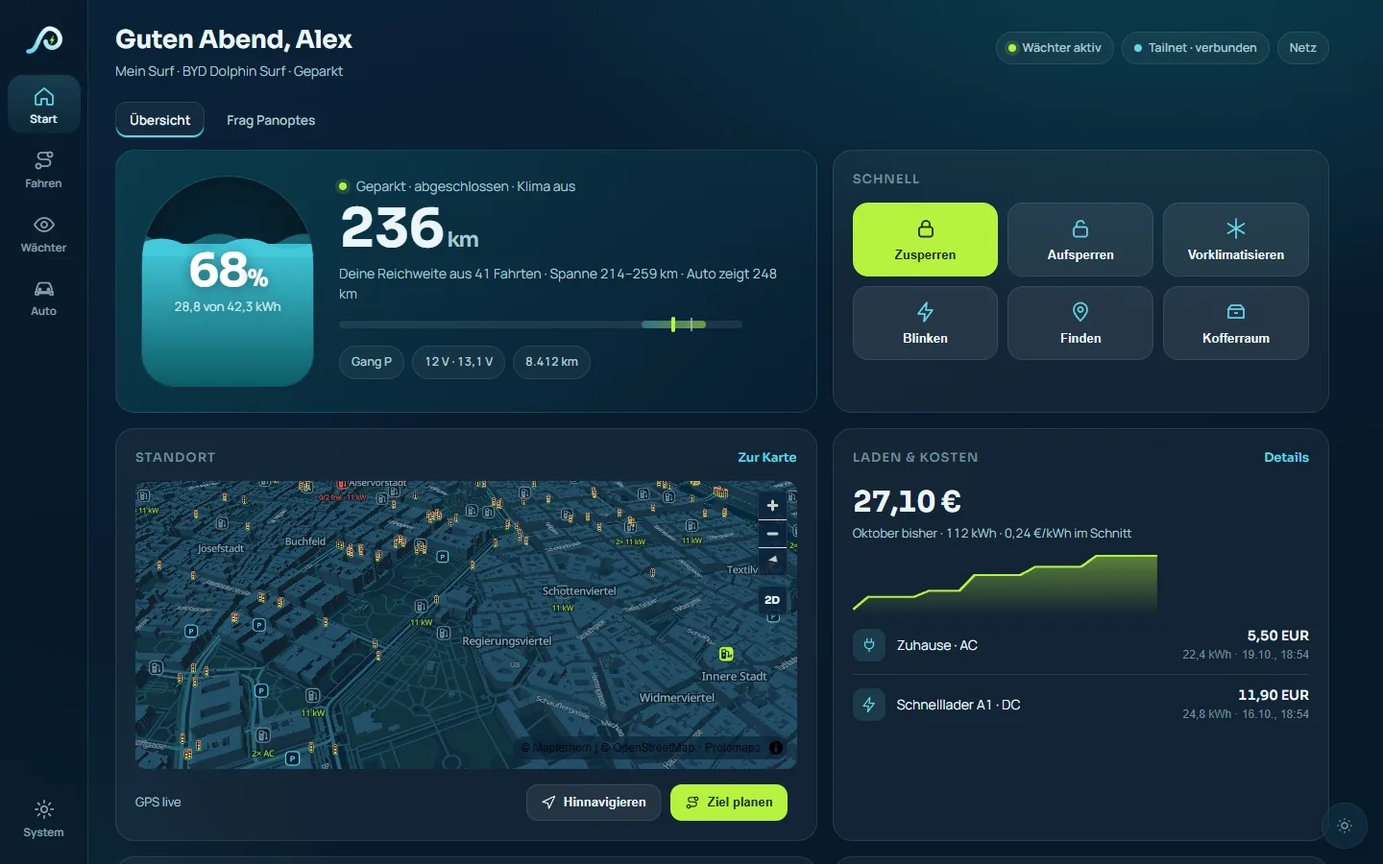
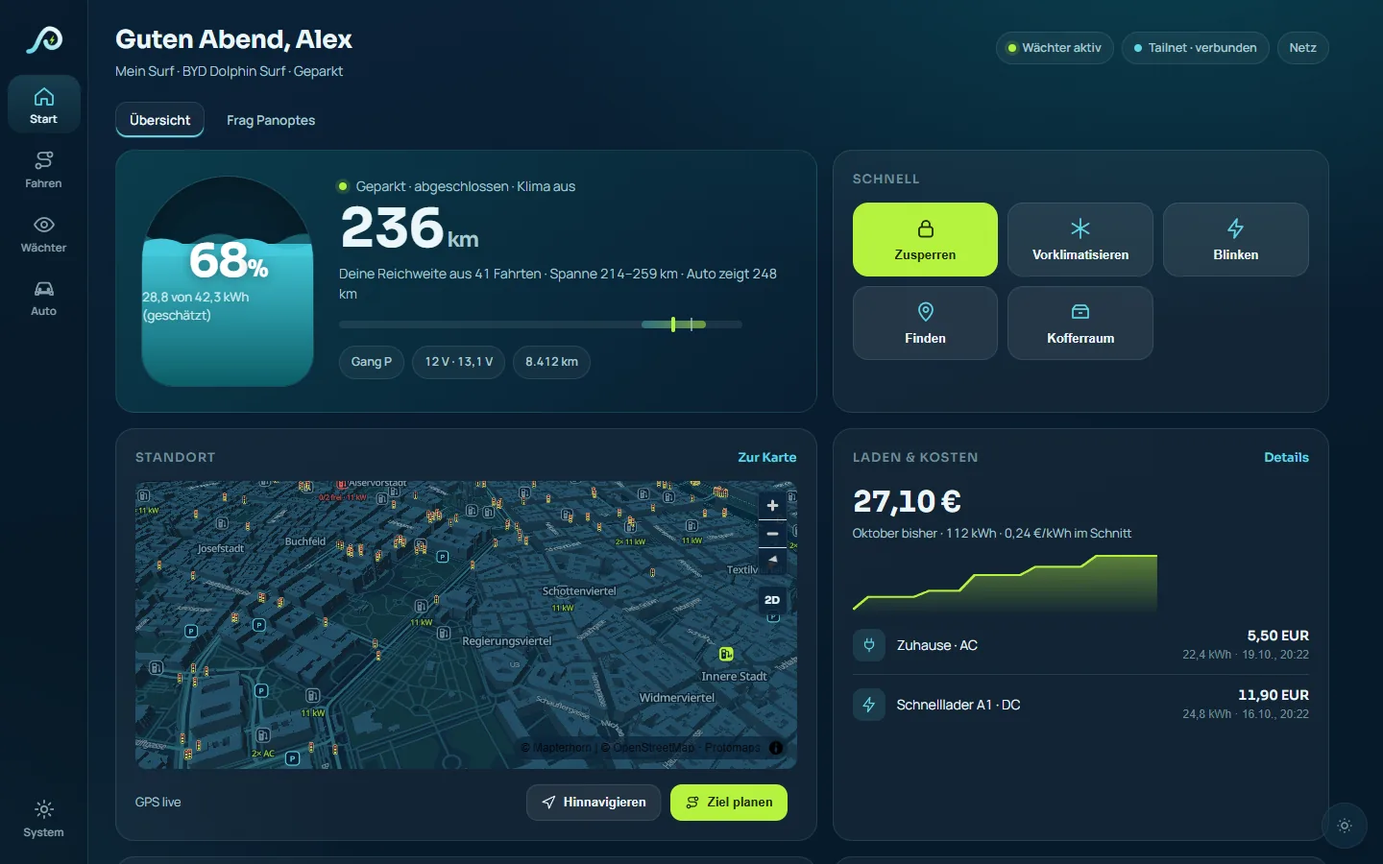
/panoptes/: neue Startbilder ohne Aufsperren (Panoptes 0.1.9, von Neubau 2), Bild-Adressen mit Inhalts-Kennung gegen 24-h-Cache

diff --git a/website/panoptes/en/index.html b/website/panoptes/en/index.html
@@ -77,7 +77,7 @@ ol.hw{padding-left:1.3em}ol.hw li{margin:.7em 0}
 
   <div class="top"><a href="/">← BYD EU Community</a><a href="../" hreflang="de">🌐 Deutsch</a></div>
   <header><div class="eyebrow">Free · for BYD with DiLink 3, 4 and 5 · community project</div><h1>Panoptes — <span class="grad">your BYD, awake and connected</span></h1><p class="sub">An app that runs right on your car's screen, plus an interface you open on your phone or PC: a camera guard, remote access, Telegram notifications, its own map with chargers and a link to the route planner.</p></header>
-  <div class="reihe"><a href="../bilder/start-pc-dunkel.webp" target="_blank" rel="noopener" class="breit" style="flex:1.6000 1 0;aspect-ratio:1440/900"><picture><source media="(prefers-color-scheme: light)" srcset="../bilder/start-pc-hell.webp"><img src="../bilder/start-pc-dunkel.webp" alt="Panoptes home on a PC: charge level, range, map and charging costs" width="1440" height="900" loading="eager" fetchpriority="high"></picture></a><a href="../bilder/start-handy-dunkel.webp" target="_blank" rel="noopener" class="hoch" style="flex:0.4621 1 0;aspect-ratio:780/1688"><picture><source media="(prefers-color-scheme: light)" srcset="../bilder/start-handy-hell.webp"><img src="../bilder/start-handy-dunkel.webp" alt="Panoptes home on a phone: charge level and range" width="780" height="1688" loading="eager" fetchpriority="high"></picture></a></div>
+  <div class="reihe"><a href="../bilder/start-pc-dunkel.webp?v=906a35c4" target="_blank" rel="noopener" class="breit" style="flex:1.6000 1 0;aspect-ratio:1440/900"><picture><source media="(prefers-color-scheme: light)" srcset="../bilder/start-pc-hell.webp?v=d918283c"><img src="../bilder/start-pc-dunkel.webp?v=906a35c4" alt="Panoptes home on a PC: charge level, range, map and charging costs" width="1440" height="900" loading="eager" fetchpriority="high"></picture></a><a href="../bilder/start-handy-dunkel.webp?v=741ae942" target="_blank" rel="noopener" class="hoch" style="flex:0.4621 1 0;aspect-ratio:780/1688"><picture><source media="(prefers-color-scheme: light)" srcset="../bilder/start-handy-hell.webp?v=725c8126"><img src="../bilder/start-handy-dunkel.webp?v=741ae942" alt="Panoptes home on a phone: charge level and range" width="780" height="1688" loading="eager" fetchpriority="high"></picture></a></div>
   <div class="note"><b>Important:</b> Panoptes is a private hobby project and not made by BYD. Please read the <a href="hinweise.html">notes</a> before installing it.</div>
   <h2 id="funktionen">What Panoptes does</h2>
   <div class="raster">
@@ -96,13 +96,13 @@ ol.hw{padding-left:1.3em}ol.hw li{margin:.7em 0}
   </div>
   <h2 id="bilder">What Panoptes looks like</h2><p class="lead">Panoptes 0.1.8 on the car screen, on a PC and on a phone. Where both versions exist, the pictures follow your device's light or dark setting. Click a picture to enlarge it. All pictures show sample data (sample location Vienna) and the German interface.</p>
   <div class="galerie">
-    <figure><div class="reihe"><a href="../bilder/start-display-dunkel.webp" target="_blank" rel="noopener" class="breit allein" style="aspect-ratio:1280/720;width:100%"><picture><img src="../bilder/start-display-dunkel.webp" alt="Panoptes on the car screen: home with charge level and range" width="1280" height="720" loading="lazy" decoding="async"></picture></a></div><figcaption><b>On the car screen: home with charge level, range and quick actions.</b></figcaption></figure>
-    <figure><div class="reihe"><a href="../bilder/waechter-display-dunkel.webp" target="_blank" rel="noopener" class="breit" style="flex:1.7778 1 0;aspect-ratio:1280/720"><picture><img src="../bilder/waechter-display-dunkel.webp" alt="Guard on the car screen with the choice of when it records" width="1280" height="720" loading="lazy" decoding="async"></picture></a><a href="../bilder/waechter-handy-dunkel.webp" target="_blank" rel="noopener" class="hoch" style="flex:0.4621 1 0;aspect-ratio:780/1688"><picture><source media="(prefers-color-scheme: light)" srcset="../bilder/waechter-handy-hell.webp"><img src="../bilder/waechter-handy-dunkel.webp" alt="Guard on a phone" width="780" height="1688" loading="lazy" decoding="async"></picture></a></div><figcaption><b>Guard: you choose when it records.</b></figcaption></figure>
-    <figure><div class="reihe"><a href="../bilder/karte-pc-dunkel.webp" target="_blank" rel="noopener" class="breit" style="flex:1.6000 1 0;aspect-ratio:1440/900"><picture><source media="(prefers-color-scheme: light)" srcset="../bilder/karte-pc-hell.webp"><img src="../bilder/karte-pc-dunkel.webp" alt="Map with chargers on a PC" width="1440" height="900" loading="lazy" decoding="async"></picture></a><a href="../bilder/karte-display-dunkel.webp" target="_blank" rel="noopener" class="breit" style="flex:1.7778 1 0;aspect-ratio:1280/720"><picture><img src="../bilder/karte-display-dunkel.webp" alt="Map on the car screen" width="1280" height="720" loading="lazy" decoding="async"></picture></a></div><figcaption><b>Map with chargers and free spots, from the source you chose.</b></figcaption></figure>
-    <figure><div class="reihe"><a href="../bilder/kartenquelle-display-dunkel.webp" target="_blank" rel="noopener" class="breit allein" style="aspect-ratio:1280/720;width:100%"><picture><img src="../bilder/kartenquelle-display-dunkel.webp" alt="Choosing the map source: community server, OpenStreetMap or none" width="1280" height="720" loading="lazy" decoding="async"></picture></a></div><figcaption><b>Map source: community server, OpenStreetMap or none. Without a choice the map stays empty.</b></figcaption></figure>
-    <figure><div class="reihe"><a href="../bilder/monatsbericht-pc-dunkel.webp" target="_blank" rel="noopener" class="breit" style="flex:1.6000 1 0;aspect-ratio:1440/900"><picture><source media="(prefers-color-scheme: light)" srcset="../bilder/monatsbericht-pc-hell.webp"><img src="../bilder/monatsbericht-pc-dunkel.webp" alt="Monthly report on a PC" width="1440" height="900" loading="lazy" decoding="async"></picture></a><a href="../bilder/monatsbericht-display-dunkel.webp" target="_blank" rel="noopener" class="breit" style="flex:1.7778 1 0;aspect-ratio:1280/720"><picture><img src="../bilder/monatsbericht-display-dunkel.webp" alt="Monthly report on the car screen" width="1280" height="720" loading="lazy" decoding="async"></picture></a></div><figcaption><b>Monthly report: distance, consumption, charging, standby loss and guard events of a month.</b></figcaption></figure>
-    <figure><div class="reihe"><a href="../bilder/geraete-pc-dunkel.webp" target="_blank" rel="noopener" class="breit allein" style="aspect-ratio:1440/900;width:100%"><picture><source media="(prefers-color-scheme: light)" srcset="../bilder/geraete-pc-hell.webp"><img src="../bilder/geraete-pc-dunkel.webp" alt="Pairing: the EV Cockpit wants to connect, check number 4711" width="1440" height="900" loading="lazy" decoding="async"></picture></a></div><figcaption><b>Pair a device: allow the EV Cockpit with a check number.</b></figcaption></figure>
-    <figure><div class="reihe"><a href="../bilder/telegram-handy-dunkel.webp" target="_blank" rel="noopener" class="hoch allein" style="aspect-ratio:780/1688;width:100%"><picture><source media="(prefers-color-scheme: light)" srcset="../bilder/telegram-handy-hell.webp"><img src="../bilder/telegram-handy-dunkel.webp" alt="Telegram notifications on a phone, each kind switchable" width="780" height="1688" loading="lazy" decoding="async"></picture></a></div><figcaption><b>Telegram: every kind of message on its own.</b></figcaption></figure>
+    <figure><div class="reihe"><a href="../bilder/start-display-dunkel.webp?v=e542f46d" target="_blank" rel="noopener" class="breit allein" style="aspect-ratio:1280/720;width:100%"><picture><img src="../bilder/start-display-dunkel.webp?v=e542f46d" alt="Panoptes on the car screen: home with charge level and range" width="1280" height="720" loading="lazy" decoding="async"></picture></a></div><figcaption><b>On the car screen: home with charge level, range and quick actions.</b></figcaption></figure>
+    <figure><div class="reihe"><a href="../bilder/waechter-display-dunkel.webp?v=34e60cf5" target="_blank" rel="noopener" class="breit" style="flex:1.7778 1 0;aspect-ratio:1280/720"><picture><img src="../bilder/waechter-display-dunkel.webp?v=34e60cf5" alt="Guard on the car screen with the choice of when it records" width="1280" height="720" loading="lazy" decoding="async"></picture></a><a href="../bilder/waechter-handy-dunkel.webp?v=759d1fb9" target="_blank" rel="noopener" class="hoch" style="flex:0.4621 1 0;aspect-ratio:780/1688"><picture><source media="(prefers-color-scheme: light)" srcset="../bilder/waechter-handy-hell.webp?v=26d7d2e7"><img src="../bilder/waechter-handy-dunkel.webp?v=759d1fb9" alt="Guard on a phone" width="780" height="1688" loading="lazy" decoding="async"></picture></a></div><figcaption><b>Guard: you choose when it records.</b></figcaption></figure>
+    <figure><div class="reihe"><a href="../bilder/karte-pc-dunkel.webp?v=78a6f7dd" target="_blank" rel="noopener" class="breit" style="flex:1.6000 1 0;aspect-ratio:1440/900"><picture><source media="(prefers-color-scheme: light)" srcset="../bilder/karte-pc-hell.webp?v=ee7fdf61"><img src="../bilder/karte-pc-dunkel.webp?v=78a6f7dd" alt="Map with chargers on a PC" width="1440" height="900" loading="lazy" decoding="async"></picture></a><a href="../bilder/karte-display-dunkel.webp?v=fe9ab938" target="_blank" rel="noopener" class="breit" style="flex:1.7778 1 0;aspect-ratio:1280/720"><picture><img src="../bilder/karte-display-dunkel.webp?v=fe9ab938" alt="Map on the car screen" width="1280" height="720" loading="lazy" decoding="async"></picture></a></div><figcaption><b>Map with chargers and free spots, from the source you chose.</b></figcaption></figure>
+    <figure><div class="reihe"><a href="../bilder/kartenquelle-display-dunkel.webp?v=41bc5cb9" target="_blank" rel="noopener" class="breit allein" style="aspect-ratio:1280/720;width:100%"><picture><img src="../bilder/kartenquelle-display-dunkel.webp?v=41bc5cb9" alt="Choosing the map source: community server, OpenStreetMap or none" width="1280" height="720" loading="lazy" decoding="async"></picture></a></div><figcaption><b>Map source: community server, OpenStreetMap or none. Without a choice the map stays empty.</b></figcaption></figure>
+    <figure><div class="reihe"><a href="../bilder/monatsbericht-pc-dunkel.webp?v=c25ea2b1" target="_blank" rel="noopener" class="breit" style="flex:1.6000 1 0;aspect-ratio:1440/900"><picture><source media="(prefers-color-scheme: light)" srcset="../bilder/monatsbericht-pc-hell.webp?v=3d77cee3"><img src="../bilder/monatsbericht-pc-dunkel.webp?v=c25ea2b1" alt="Monthly report on a PC" width="1440" height="900" loading="lazy" decoding="async"></picture></a><a href="../bilder/monatsbericht-display-dunkel.webp?v=dd4a3ecf" target="_blank" rel="noopener" class="breit" style="flex:1.7778 1 0;aspect-ratio:1280/720"><picture><img src="../bilder/monatsbericht-display-dunkel.webp?v=dd4a3ecf" alt="Monthly report on the car screen" width="1280" height="720" loading="lazy" decoding="async"></picture></a></div><figcaption><b>Monthly report: distance, consumption, charging, standby loss and guard events of a month.</b></figcaption></figure>
+    <figure><div class="reihe"><a href="../bilder/geraete-pc-dunkel.webp?v=c47449a3" target="_blank" rel="noopener" class="breit allein" style="aspect-ratio:1440/900;width:100%"><picture><source media="(prefers-color-scheme: light)" srcset="../bilder/geraete-pc-hell.webp?v=d526a5b5"><img src="../bilder/geraete-pc-dunkel.webp?v=c47449a3" alt="Pairing: the EV Cockpit wants to connect, check number 4711" width="1440" height="900" loading="lazy" decoding="async"></picture></a></div><figcaption><b>Pair a device: allow the EV Cockpit with a check number.</b></figcaption></figure>
+    <figure><div class="reihe"><a href="../bilder/telegram-handy-dunkel.webp?v=079985ff" target="_blank" rel="noopener" class="hoch allein" style="aspect-ratio:780/1688;width:100%"><picture><source media="(prefers-color-scheme: light)" srcset="../bilder/telegram-handy-hell.webp?v=eca6a791"><img src="../bilder/telegram-handy-dunkel.webp?v=079985ff" alt="Telegram notifications on a phone, each kind switchable" width="780" height="1688" loading="lazy" decoding="async"></picture></a></div><figcaption><b>Telegram: every kind of message on its own.</b></figcaption></figure>
   </div>
   <h2 id="zusammenhang">How it all fits together</h2><p class="lead">Panoptes runs in the car. Everything else is optional and can be connected and disconnected one by one.</p>
   <div class="diagramm"><div class="breit"><svg viewBox="0 0 910 520" role="img" aria-label="Diagram: Panoptes in the car in the middle, connected to the EV Cockpit on a PC, the route planner, the community map, a Telegram bot and, soon, Home Assistant" xmlns="http://www.w3.org/2000/svg">

diff --git a/website/panoptes/index.html b/website/panoptes/index.html
@@ -77,7 +77,7 @@ ol.hw{padding-left:1.3em}ol.hw li{margin:.7em 0}
 
   <div class="top"><a href="/">← BYD EU Community</a><a href="en/" hreflang="en">🌐 English</a></div>
   <header><div class="eyebrow">Kostenlos · für BYD mit DiLink 3, 4 und 5 · Community-Projekt</div><h1>Panoptes — <span class="grad">dein BYD, wach und vernetzt</span></h1><p class="sub">Eine App, die direkt am Bildschirm in deinem Auto läuft. Dazu eine Oberfläche, die du am Handy oder PC öffnest: Wächter mit Kamera, Fernzugang, Meldungen über Telegram, eine eigene Karte mit Ladesäulen und die Verbindung zum Routenplaner.</p></header>
-  <div class="reihe"><a href="bilder/start-pc-dunkel.webp" target="_blank" rel="noopener" class="breit" style="flex:1.6000 1 0;aspect-ratio:1440/900"><picture><source media="(prefers-color-scheme: light)" srcset="bilder/start-pc-hell.webp"><img src="bilder/start-pc-dunkel.webp" alt="Panoptes-Startseite am PC: Ladestand, Reichweite, Karte und Ladekosten" width="1440" height="900" loading="eager" fetchpriority="high"></picture></a><a href="bilder/start-handy-dunkel.webp" target="_blank" rel="noopener" class="hoch" style="flex:0.4621 1 0;aspect-ratio:780/1688"><picture><source media="(prefers-color-scheme: light)" srcset="bilder/start-handy-hell.webp"><img src="bilder/start-handy-dunkel.webp" alt="Panoptes-Startseite am Handy: Ladestand und Reichweite" width="780" height="1688" loading="eager" fetchpriority="high"></picture></a></div>
+  <div class="reihe"><a href="bilder/start-pc-dunkel.webp?v=906a35c4" target="_blank" rel="noopener" class="breit" style="flex:1.6000 1 0;aspect-ratio:1440/900"><picture><source media="(prefers-color-scheme: light)" srcset="bilder/start-pc-hell.webp?v=d918283c"><img src="bilder/start-pc-dunkel.webp?v=906a35c4" alt="Panoptes-Startseite am PC: Ladestand, Reichweite, Karte und Ladekosten" width="1440" height="900" loading="eager" fetchpriority="high"></picture></a><a href="bilder/start-handy-dunkel.webp?v=741ae942" target="_blank" rel="noopener" class="hoch" style="flex:0.4621 1 0;aspect-ratio:780/1688"><picture><source media="(prefers-color-scheme: light)" srcset="bilder/start-handy-hell.webp?v=725c8126"><img src="bilder/start-handy-dunkel.webp?v=741ae942" alt="Panoptes-Startseite am Handy: Ladestand und Reichweite" width="780" height="1688" loading="eager" fetchpriority="high"></picture></a></div>
   <div class="note"><b>Wichtig:</b> Panoptes ist ein privates Freizeitprojekt und nicht von BYD. Bitte lies die <a href="hinweise.html">Hinweise</a>, bevor du es installierst.</div>
   <h2 id="funktionen">Was Panoptes kann</h2>
   <div class="raster">
@@ -96,13 +96,13 @@ ol.hw{padding-left:1.3em}ol.hw li{margin:.7em 0}
   </div>
   <h2 id="bilder">So sieht Panoptes aus</h2><p class="lead">Panoptes 0.1.8 am Bildschirm im Auto, am PC und am Handy. Wo es beide Fassungen gibt, folgen die Bilder hell oder dunkel deinem Gerät. Klick auf ein Bild zum Vergrößern. Alle Bilder zeigen Musterdaten (Musterstandort Wien).</p>
   <div class="galerie">
-    <figure><div class="reihe"><a href="bilder/start-display-dunkel.webp" target="_blank" rel="noopener" class="breit allein" style="aspect-ratio:1280/720;width:100%"><picture><img src="bilder/start-display-dunkel.webp" alt="Panoptes am Bildschirm im Auto: Start mit Ladestand und Reichweite" width="1280" height="720" loading="lazy" decoding="async"></picture></a></div><figcaption><b>Am Bildschirm im Auto: Start mit Ladestand, Reichweite und Schnellzugriffen.</b></figcaption></figure>
-    <figure><div class="reihe"><a href="bilder/waechter-display-dunkel.webp" target="_blank" rel="noopener" class="breit" style="flex:1.7778 1 0;aspect-ratio:1280/720"><picture><img src="bilder/waechter-display-dunkel.webp" alt="Wächter am Bildschirm im Auto mit der Wahl, wann aufgenommen wird" width="1280" height="720" loading="lazy" decoding="async"></picture></a><a href="bilder/waechter-handy-dunkel.webp" target="_blank" rel="noopener" class="hoch" style="flex:0.4621 1 0;aspect-ratio:780/1688"><picture><source media="(prefers-color-scheme: light)" srcset="bilder/waechter-handy-hell.webp"><img src="bilder/waechter-handy-dunkel.webp" alt="Wächter am Handy" width="780" height="1688" loading="lazy" decoding="async"></picture></a></div><figcaption><b>Wächter: Du wählst selbst, wann aufgenommen wird.</b></figcaption></figure>
-    <figure><div class="reihe"><a href="bilder/karte-pc-dunkel.webp" target="_blank" rel="noopener" class="breit" style="flex:1.6000 1 0;aspect-ratio:1440/900"><picture><source media="(prefers-color-scheme: light)" srcset="bilder/karte-pc-hell.webp"><img src="bilder/karte-pc-dunkel.webp" alt="Karte mit Ladesäulen am PC" width="1440" height="900" loading="lazy" decoding="async"></picture></a><a href="bilder/karte-display-dunkel.webp" target="_blank" rel="noopener" class="breit" style="flex:1.7778 1 0;aspect-ratio:1280/720"><picture><img src="bilder/karte-display-dunkel.webp" alt="Karte am Bildschirm im Auto" width="1280" height="720" loading="lazy" decoding="async"></picture></a></div><figcaption><b>Karte mit Ladesäulen und freien Plätzen, aus der Quelle, die du gewählt hast.</b></figcaption></figure>
-    <figure><div class="reihe"><a href="bilder/kartenquelle-display-dunkel.webp" target="_blank" rel="noopener" class="breit allein" style="aspect-ratio:1280/720;width:100%"><picture><img src="bilder/kartenquelle-display-dunkel.webp" alt="Auswahl der Kartenquelle: Community-Server, OpenStreetMap oder keine" width="1280" height="720" loading="lazy" decoding="async"></picture></a></div><figcaption><b>Kartenquelle: Community-Server, OpenStreetMap oder keine. Ohne Wahl bleibt die Karte leer.</b></figcaption></figure>
-    <figure><div class="reihe"><a href="bilder/monatsbericht-pc-dunkel.webp" target="_blank" rel="noopener" class="breit" style="flex:1.6000 1 0;aspect-ratio:1440/900"><picture><source media="(prefers-color-scheme: light)" srcset="bilder/monatsbericht-pc-hell.webp"><img src="bilder/monatsbericht-pc-dunkel.webp" alt="Monatsbericht am PC" width="1440" height="900" loading="lazy" decoding="async"></picture></a><a href="bilder/monatsbericht-display-dunkel.webp" target="_blank" rel="noopener" class="breit" style="flex:1.7778 1 0;aspect-ratio:1280/720"><picture><img src="bilder/monatsbericht-display-dunkel.webp" alt="Monatsbericht am Bildschirm im Auto" width="1280" height="720" loading="lazy" decoding="async"></picture></a></div><figcaption><b>Monatsbericht: Kilometer, Verbrauch, Laden, Standverlust und Wächter eines Monats.</b></figcaption></figure>
-    <figure><div class="reihe"><a href="bilder/geraete-pc-dunkel.webp" target="_blank" rel="noopener" class="breit allein" style="aspect-ratio:1440/900;width:100%"><picture><source media="(prefers-color-scheme: light)" srcset="bilder/geraete-pc-hell.webp"><img src="bilder/geraete-pc-dunkel.webp" alt="Gerät koppeln: das EV-Cockpit möchte sich verbinden, Prüfzahl 4711" width="1440" height="900" loading="lazy" decoding="async"></picture></a></div><figcaption><b>Gerät koppeln: das EV-Cockpit mit Prüfzahl erlauben.</b></figcaption></figure>
-    <figure><div class="reihe"><a href="bilder/telegram-handy-dunkel.webp" target="_blank" rel="noopener" class="hoch allein" style="aspect-ratio:780/1688;width:100%"><picture><source media="(prefers-color-scheme: light)" srcset="bilder/telegram-handy-hell.webp"><img src="bilder/telegram-handy-dunkel.webp" alt="Telegram-Meldungen am Handy, jede Art einzeln schaltbar" width="780" height="1688" loading="lazy" decoding="async"></picture></a></div><figcaption><b>Telegram: jede Meldungsart einzeln.</b></figcaption></figure>
+    <figure><div class="reihe"><a href="bilder/start-display-dunkel.webp?v=e542f46d" target="_blank" rel="noopener" class="breit allein" style="aspect-ratio:1280/720;width:100%"><picture><img src="bilder/start-display-dunkel.webp?v=e542f46d" alt="Panoptes am Bildschirm im Auto: Start mit Ladestand und Reichweite" width="1280" height="720" loading="lazy" decoding="async"></picture></a></div><figcaption><b>Am Bildschirm im Auto: Start mit Ladestand, Reichweite und Schnellzugriffen.</b></figcaption></figure>
+    <figure><div class="reihe"><a href="bilder/waechter-display-dunkel.webp?v=34e60cf5" target="_blank" rel="noopener" class="breit" style="flex:1.7778 1 0;aspect-ratio:1280/720"><picture><img src="bilder/waechter-display-dunkel.webp?v=34e60cf5" alt="Wächter am Bildschirm im Auto mit der Wahl, wann aufgenommen wird" width="1280" height="720" loading="lazy" decoding="async"></picture></a><a href="bilder/waechter-handy-dunkel.webp?v=759d1fb9" target="_blank" rel="noopener" class="hoch" style="flex:0.4621 1 0;aspect-ratio:780/1688"><picture><source media="(prefers-color-scheme: light)" srcset="bilder/waechter-handy-hell.webp?v=26d7d2e7"><img src="bilder/waechter-handy-dunkel.webp?v=759d1fb9" alt="Wächter am Handy" width="780" height="1688" loading="lazy" decoding="async"></picture></a></div><figcaption><b>Wächter: Du wählst selbst, wann aufgenommen wird.</b></figcaption></figure>
+    <figure><div class="reihe"><a href="bilder/karte-pc-dunkel.webp?v=78a6f7dd" target="_blank" rel="noopener" class="breit" style="flex:1.6000 1 0;aspect-ratio:1440/900"><picture><source media="(prefers-color-scheme: light)" srcset="bilder/karte-pc-hell.webp?v=ee7fdf61"><img src="bilder/karte-pc-dunkel.webp?v=78a6f7dd" alt="Karte mit Ladesäulen am PC" width="1440" height="900" loading="lazy" decoding="async"></picture></a><a href="bilder/karte-display-dunkel.webp?v=fe9ab938" target="_blank" rel="noopener" class="breit" style="flex:1.7778 1 0;aspect-ratio:1280/720"><picture><img src="bilder/karte-display-dunkel.webp?v=fe9ab938" alt="Karte am Bildschirm im Auto" width="1280" height="720" loading="lazy" decoding="async"></picture></a></div><figcaption><b>Karte mit Ladesäulen und freien Plätzen, aus der Quelle, die du gewählt hast.</b></figcaption></figure>
+    <figure><div class="reihe"><a href="bilder/kartenquelle-display-dunkel.webp?v=41bc5cb9" target="_blank" rel="noopener" class="breit allein" style="aspect-ratio:1280/720;width:100%"><picture><img src="bilder/kartenquelle-display-dunkel.webp?v=41bc5cb9" alt="Auswahl der Kartenquelle: Community-Server, OpenStreetMap oder keine" width="1280" height="720" loading="lazy" decoding="async"></picture></a></div><figcaption><b>Kartenquelle: Community-Server, OpenStreetMap oder keine. Ohne Wahl bleibt die Karte leer.</b></figcaption></figure>
+    <figure><div class="reihe"><a href="bilder/monatsbericht-pc-dunkel.webp?v=c25ea2b1" target="_blank" rel="noopener" class="breit" style="flex:1.6000 1 0;aspect-ratio:1440/900"><picture><source media="(prefers-color-scheme: light)" srcset="bilder/monatsbericht-pc-hell.webp?v=3d77cee3"><img src="bilder/monatsbericht-pc-dunkel.webp?v=c25ea2b1" alt="Monatsbericht am PC" width="1440" height="900" loading="lazy" decoding="async"></picture></a><a href="bilder/monatsbericht-display-dunkel.webp?v=dd4a3ecf" target="_blank" rel="noopener" class="breit" style="flex:1.7778 1 0;aspect-ratio:1280/720"><picture><img src="bilder/monatsbericht-display-dunkel.webp?v=dd4a3ecf" alt="Monatsbericht am Bildschirm im Auto" width="1280" height="720" loading="lazy" decoding="async"></picture></a></div><figcaption><b>Monatsbericht: Kilometer, Verbrauch, Laden, Standverlust und Wächter eines Monats.</b></figcaption></figure>
+    <figure><div class="reihe"><a href="bilder/geraete-pc-dunkel.webp?v=c47449a3" target="_blank" rel="noopener" class="breit allein" style="aspect-ratio:1440/900;width:100%"><picture><source media="(prefers-color-scheme: light)" srcset="bilder/geraete-pc-hell.webp?v=d526a5b5"><img src="bilder/geraete-pc-dunkel.webp?v=c47449a3" alt="Gerät koppeln: das EV-Cockpit möchte sich verbinden, Prüfzahl 4711" width="1440" height="900" loading="lazy" decoding="async"></picture></a></div><figcaption><b>Gerät koppeln: das EV-Cockpit mit Prüfzahl erlauben.</b></figcaption></figure>
+    <figure><div class="reihe"><a href="bilder/telegram-handy-dunkel.webp?v=079985ff" target="_blank" rel="noopener" class="hoch allein" style="aspect-ratio:780/1688;width:100%"><picture><source media="(prefers-color-scheme: light)" srcset="bilder/telegram-handy-hell.webp?v=eca6a791"><img src="bilder/telegram-handy-dunkel.webp?v=079985ff" alt="Telegram-Meldungen am Handy, jede Art einzeln schaltbar" width="780" height="1688" loading="lazy" decoding="async"></picture></a></div><figcaption><b>Telegram: jede Meldungsart einzeln.</b></figcaption></figure>
   </div>
   <h2 id="zusammenhang">Wie alles zusammenhängt</h2><p class="lead">Panoptes läuft im Auto. Alles andere ist freiwillig und lässt sich einzeln verbinden und wieder trennen.</p>
   <div class="diagramm"><div class="breit"><svg viewBox="0 0 910 520" role="img" aria-label="Grafik: Panoptes im Auto in der Mitte, verbunden mit EV-Cockpit am PC, Routenplaner, Community-Karte, Telegram-Bot und bald Home Assistant" xmlns="http://www.w3.org/2000/svg">

diff --git a/website/bau_panoptes.py b/website/bau_panoptes.py
@@ -312,10 +312,14 @@ def bild(name, art, alt, pfad, klasse="", sofort=False, stil=""):
     b = pfad + "bilder/" + name + "-" + art
     w, h = GROESSE[art]
     hell = os.path.exists(os.path.join(QUELLE, name + "-" + art + "-hell.webp"))
-    quelle = ('<source media="(prefers-color-scheme: light)" srcset="%s-hell.webp">' % b) if hell else ""
-    return ('<a href="%s-dunkel.webp" target="_blank" rel="noopener"%s%s><picture>%s'
-            '<img src="%s-dunkel.webp" alt="%s" width="%d" height="%d"%s></picture></a>'
-            % (b, (' class="%s"' % klasse) if klasse else "", (' style="%s"' % stil) if stil else "", quelle, b, html.escape(alt), w, h,
+    def v(datei):                          # Inhalts-Kennung: neues Bild -> neue Adresse (Bilder sind 24 h im Cache)
+        import hashlib
+        return "?v=" + hashlib.sha256(open(os.path.join(QUELLE, datei), "rb").read()).hexdigest()[:8]
+    dunkel = b + "-dunkel.webp" + v(name + "-" + art + "-dunkel.webp")
+    quelle = ('<source media="(prefers-color-scheme: light)" srcset="%s-hell.webp%s">' % (b, v(name + "-" + art + "-hell.webp"))) if hell else ""
+    return ('<a href="%s" target="_blank" rel="noopener"%s%s><picture>%s'
+            '<img src="%s" alt="%s" width="%d" height="%d"%s></picture></a>'
+            % (dunkel, (' class="%s"' % klasse) if klasse else "", (' style="%s"' % stil) if stil else "", quelle, dunkel, html.escape(alt), w, h,
                ' loading="eager" fetchpriority="high"' if sofort else ' loading="lazy" decoding="async"'))
 
 
